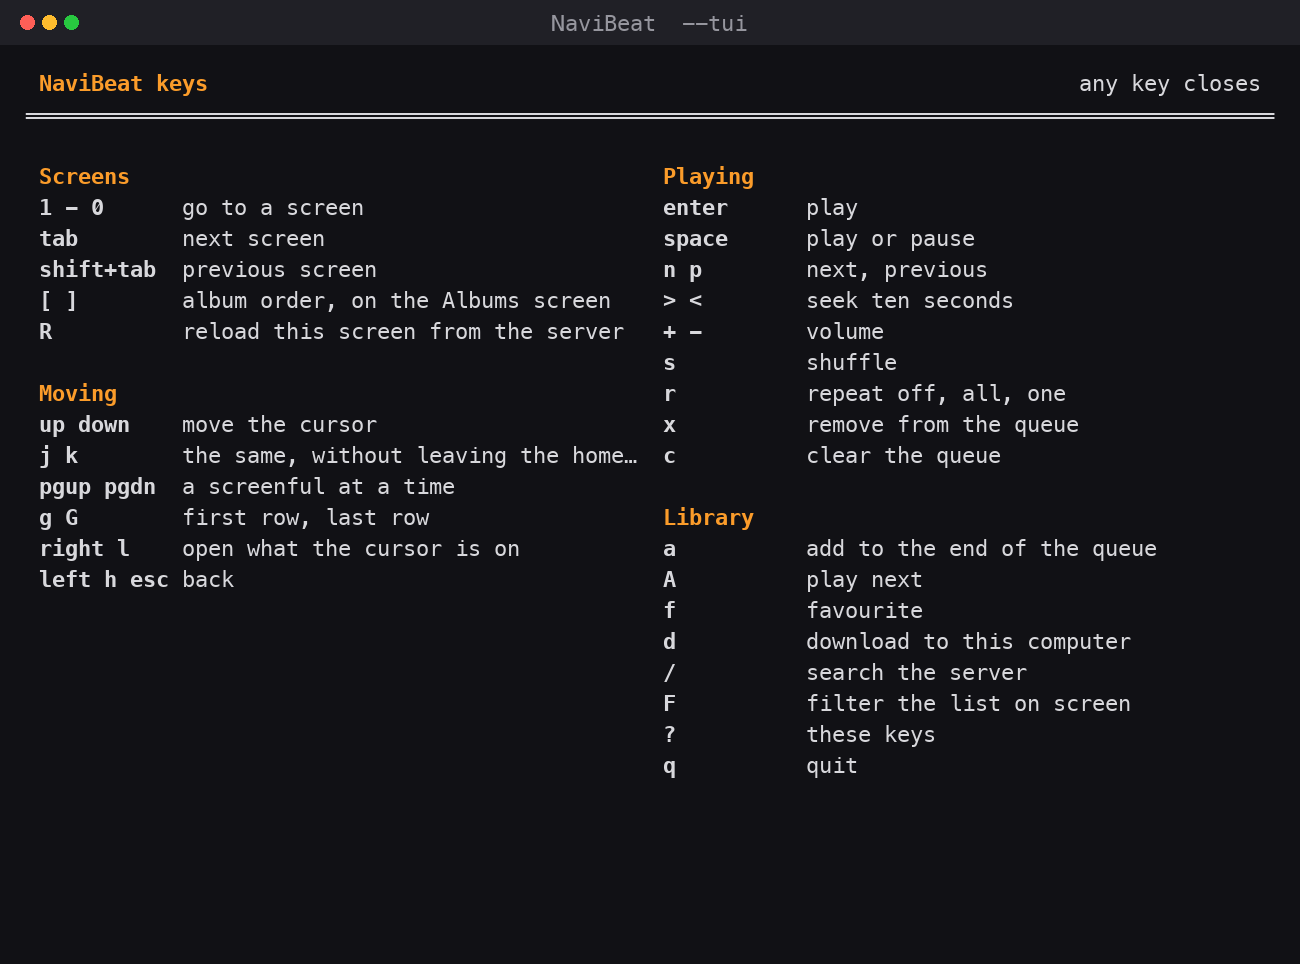
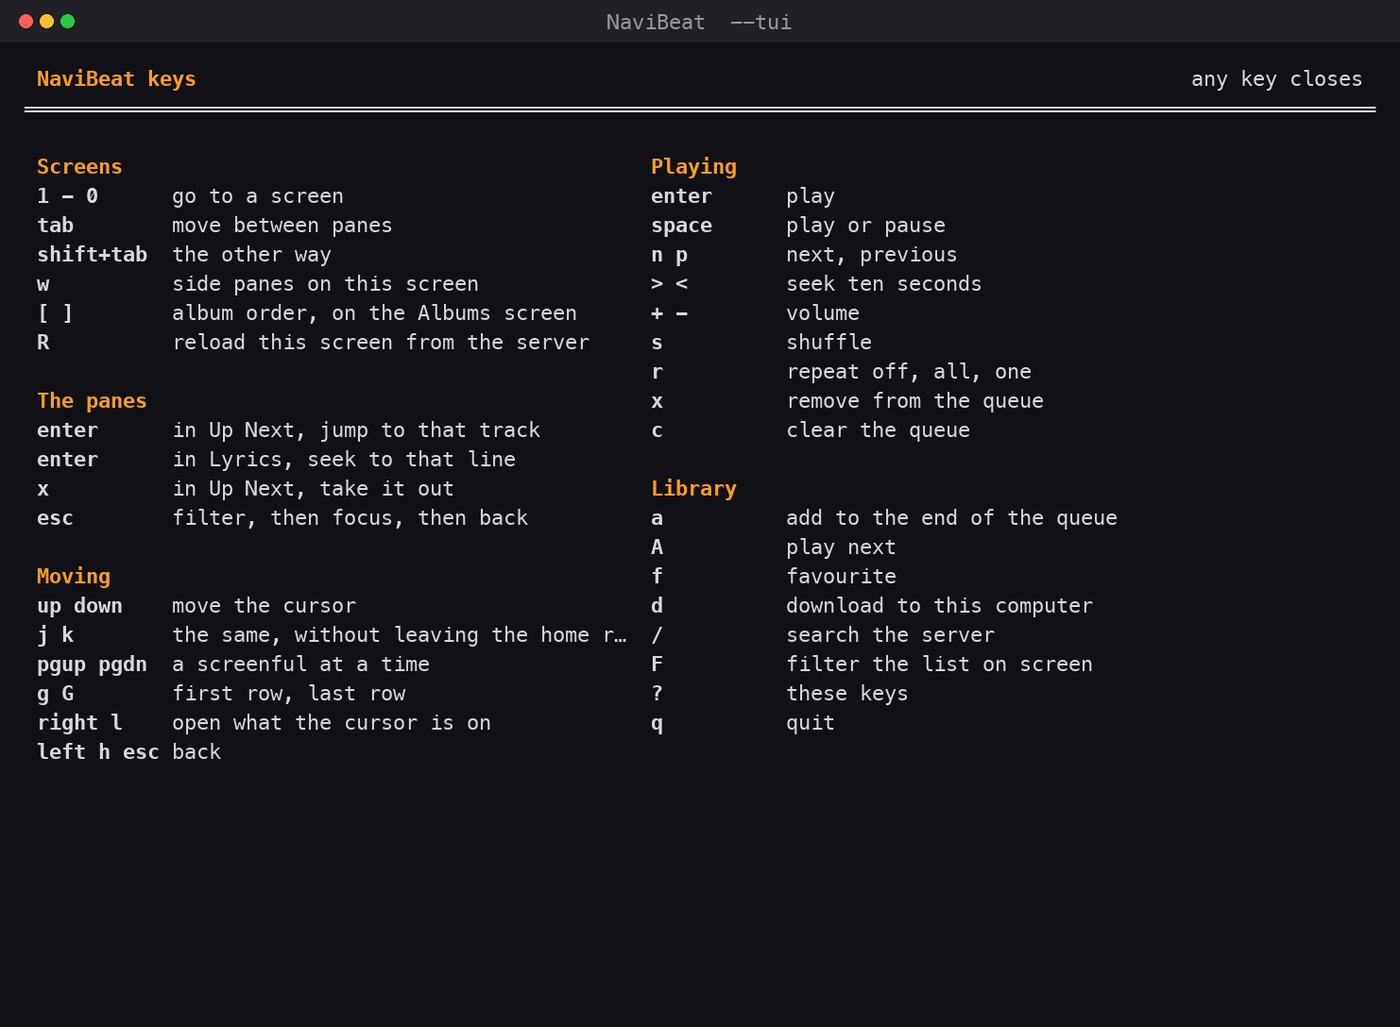
README: the terminal client is a workspace, with three new screenshots
The section described a single full width list, which is what that client was
two releases ago. It now shows what 0.9.56 actually draws: framed sections, the
library beside Up Next and time-synced lyrics, cover art in terminal cells, the
listening heatmap and Guess the Year. Every picture is the shipped artifact
running against a real 200 album library.

diff --git a/README.md b/README.md
@@ -108,7 +108,8 @@ Everything the Linux build can do today.
 - **Frosted Glass**: a translucent window, tinted for readability, that asks the compositor to blur behind it (KDE and picom oblige; GNOME shows the tint)
 - Remembers its **window size and position**
 - **Media-key and desktop integration** over MPRIS
-- **A terminal client** (`--tui`) for a headless server or a Raspberry Pi over SSH
+- **A terminal client** (`--tui`) for a headless server or a Raspberry Pi over SSH, with cover art,
+  time-synced lyrics and a listening heatmap
 - **Zero analytics, zero trackers**
 
 <div align="center">
@@ -132,18 +133,47 @@ as the window.
 
 <div align="center">
 
-<img src="docs/img/tui.png" alt="NaviBeat's terminal client: the Albums screen with 200 albums and a track playing, the progress bar in NaviBeat's red to orange gradient" width="90%">
+<img src="docs/img/tui.png" alt="NaviBeat's terminal client: an album page with cover art drawn in terminal cells, Up Next and time-synced lyrics in their own framed sections on the right, and a framed now playing bar" width="92%">
 
 </div>
 
-It is a real client, not a remote control:
+**Your library, what is coming, and the words, at once.** Every section sits in its own frame, and
+the one your keys are going to is drawn in NaviBeat's own red to orange gradient, so you can see
+where you are without reading anything.
 
+- **`Tab` moves between the panes**: the library, Up Next, and the lyrics. In the queue `enter` jumps
+  to that track and `x` takes it out; in the lyrics, `enter` **seeks to that line**.
+- **Real cover art**, drawn in terminal cells. One cell carries two pixels in full colour, so an
+  album page shows the record. There is a small sleeve beside the transport too.
 - **Ten screens on the number row.** Home, Albums, Artists, Songs, Playlists, Genres, Radios,
   Favorites, Downloads and the Queue, with album, artist, playlist and genre screens behind them.
-- **Search your server** with `/`, filter what is on screen with `F`.
-- **Queue, favourite and download** from any row, the same as in the window.
+- **Search your server** with `/`, filter what is on screen with `F`, turn the side panes on or off
+  for any screen with `w`.
 - **playerctl and your media keys** see it, exactly as they see the window.
 - **Pairing on first run**, so a headless machine never needs a desktop to get started.
+
+Under 90 columns the panes stand down and the list takes the whole width, because a title that fits
+whole is worth more than a column that does not.
+
+<div align="center">
+
+<img src="docs/img/tui-listening.png" alt="NaviBeat's terminal client: a listening heatmap of seven days by twenty four hours with top artists, albums and songs" width="92%">
+
+</div>
+
+**Listening** is a heatmap of your own play log, seven days by twenty four hours, with your busiest
+hour and your top artists, albums and songs underneath. `[` and `]` move between week, month, year
+and all time. It is kept on your machine and nowhere else, and it fills as you listen.
+
+<div align="center">
+
+<img src="docs/img/tui-game.png" alt="NaviBeat's terminal client: Guess the Year, a hidden track with four candidate years and a running score" width="92%">
+
+</div>
+
+**Guess the Year** plays a track from your own library with its name hidden and asks you for the
+year. Ten points exact, eight within two, and the track keeps playing after you answer. Both of these
+sit on Home.
 
 Keys are the ones a terminal listener already has in their fingers, and `?` shows the whole map:
 

diff --git a/CHANGELOG.md b/CHANGELOG.md
@@ -3,6 +3,29 @@
 Every release attaches a fresh AppImage. Newest first. Each version's full note is on its
 [release page](../../releases).
 
+## 0.9.56 (beta)
+
+**The terminal client stops being a list.**
+
+- Every section in its own frame, in NaviBeat's amber, with the focused one drawn in the app's own
+  red to orange gradient.
+- The library, Up Next and time-synced lyrics on screen at once. `Tab` moves between them; `enter`
+  in the queue jumps to a track, `enter` in the lyrics seeks to that line; `w` turns the side panes
+  on or off per screen.
+- **Cover art in the terminal**, one cell carrying two pixels in full colour, on album and artist
+  pages and beside the transport.
+- **Listening**, a heatmap of your own play log, seven days by twenty four hours, with your top
+  artists, albums and songs.
+- **Guess the Year**, a track from your library with its name hidden and four years to pick from.
+- A line along the bottom that always shows the keys that work where you are.
+
+## 0.9.55 (beta)
+
+- Cover art in search results, and square tiles instead of stretched ones.
+- Connect Last.fm opens your browser on desktops where it did not before, and the authorize address
+  is on screen with a Copy button while linking.
+- The same filter field on Albums, Artists, Songs, Playlists and Downloads.
+
 ## 0.9.54 (beta)
 
 **NaviBeat runs without a desktop.**
